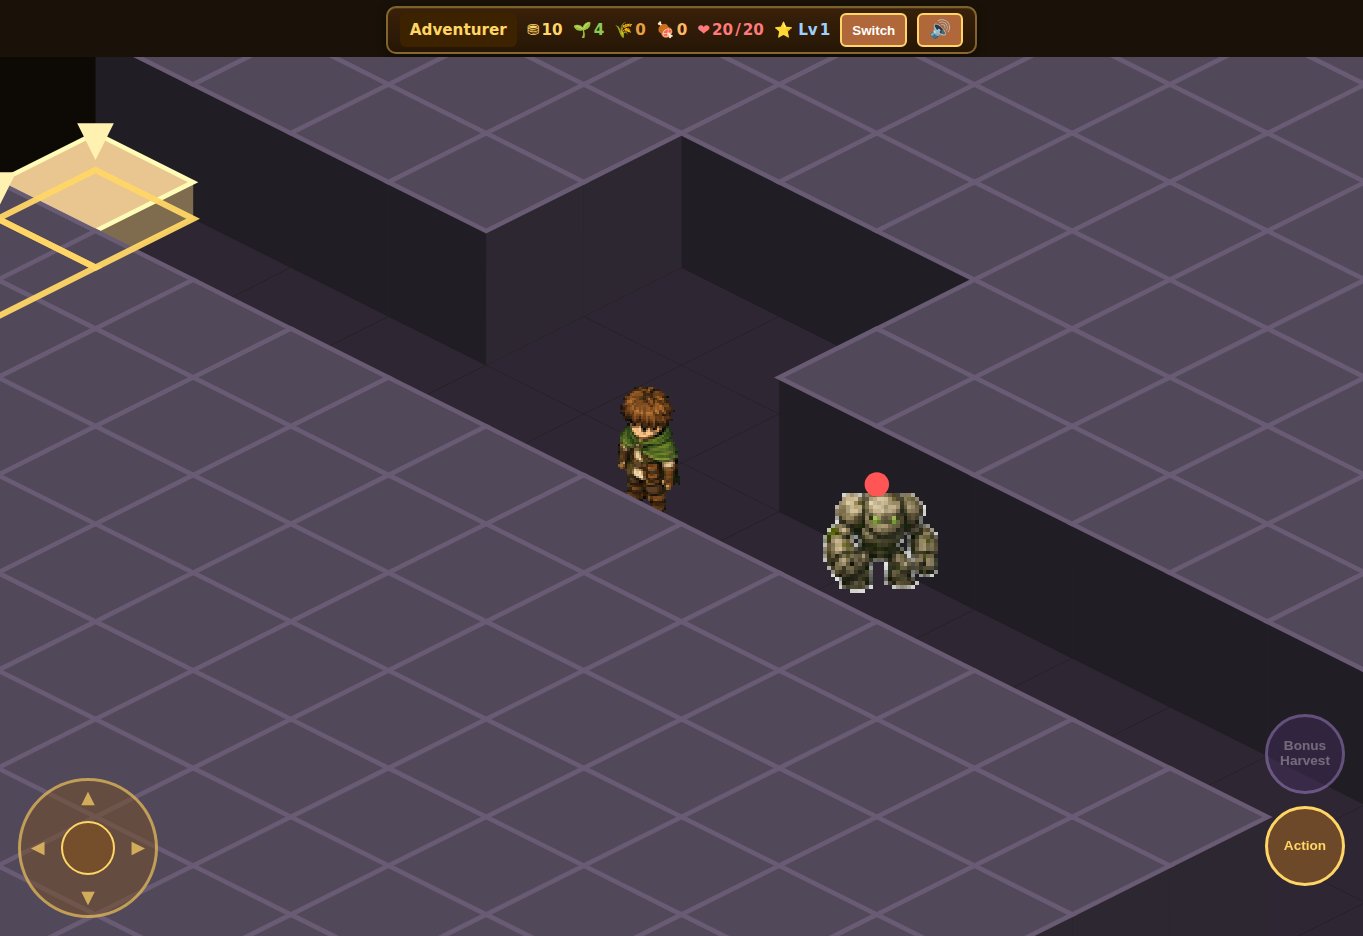
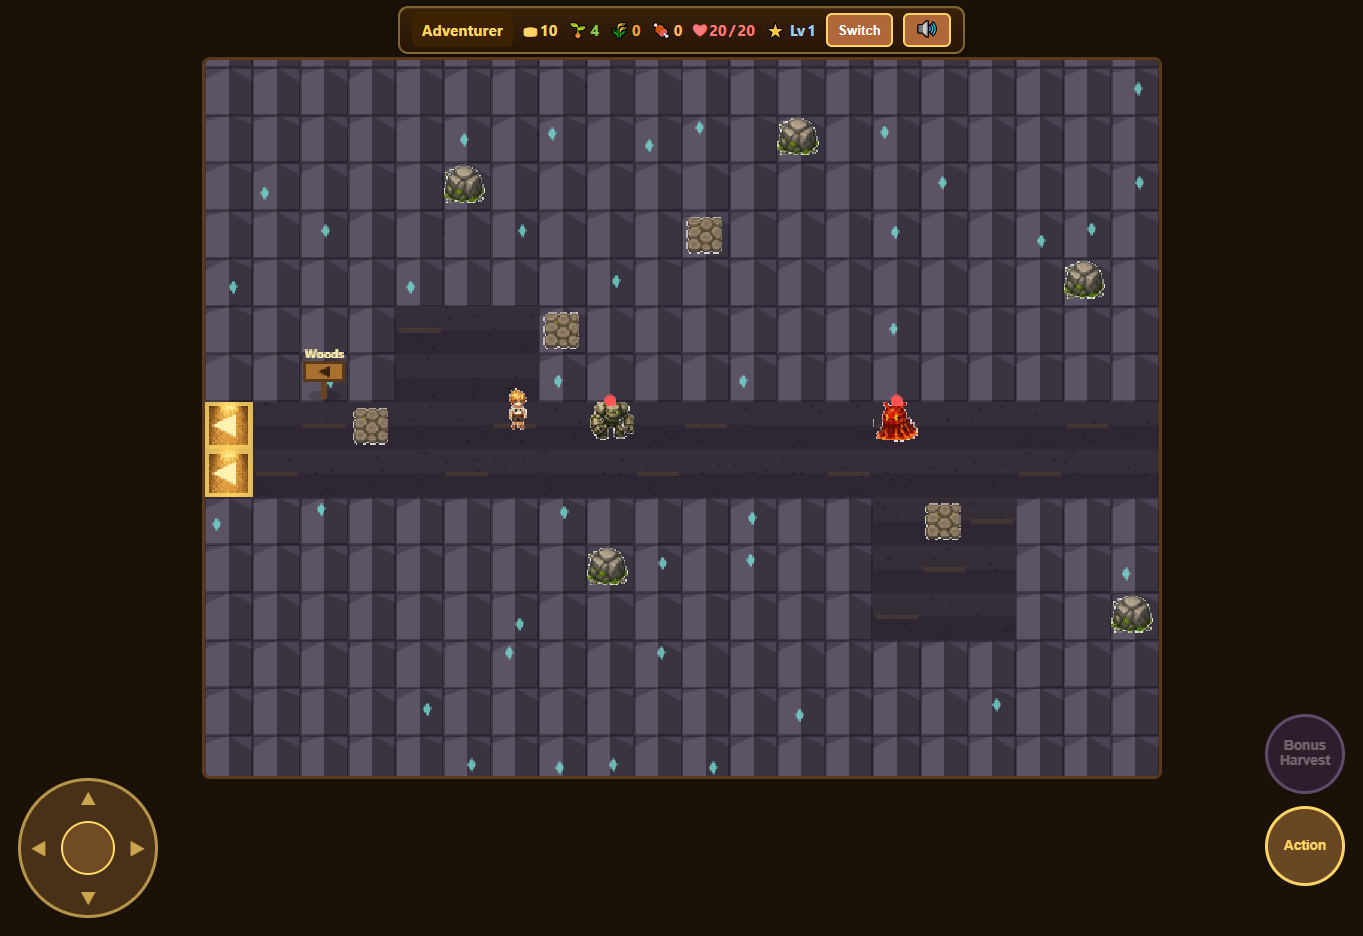
fix: address blocking review — keep top-down cardinal, revert combat-area iso defaults
Review finding 1: under ?iso=0 the eight-way facing broke the escape
hatch — attack strips and equipment overlays exist only for the original
four facings, so a diagonal facing dropped them. Top-down movement and
tap-to-face now stay cardinal (cardinalFromVector, the pre-8-direction
horizontal-wins rule), a stale diagonal facing carried into top-down
(iso save / mode toggle) snaps back on the next update, and iso keeps
the full eight-way behavior where overlays are not drawn. New iso-test
Suite 17 covers diagonal input, attack art, equipped gear, and the
snap-back in ?iso=0.

Review finding 2: the all-area iso default flip exceeded this slice's
scope — the iso spec gates Phase 4 on combat/quest parity that is not
yet established for Wilds/Deep Woods/Mine. ISO_AREAS reverts to
farm/town only, Suite 2 restores the unported-areas assertion, the
mine-cavern captures revert to their base top-down state, and
CURRENT_STATE / iso spec / PIPELINE.md now scope the eight-direction
upgrade to iso mode with the combat areas' defaults unchanged. The iso
enemy-sprite drawing and the area evidence remain valid under the
?iso=1 development override and are relabelled as such.

Full npm test chain passes at this head.

Claude-Session: https://claude.ai/code/session_01VbBEy8sMVWqwU3Y7Q4qbTv

diff --git a/index.html b/index.html
@@ -1182,6 +1182,20 @@ function facingFromVector(dx, dy) {
   return FACING_OCTANTS[((oct % 8) + 8) % 8];
 }
 
+// Top-down keeps the original four facings: attack strips and equipment
+// overlays only exist for those, so a diagonal facing under ?iso=0 would make
+// the attack animation and equipped gear vanish. Diagonal input prefers the
+// stronger axis; tied diagonals keep the horizontal direction (pre-8-direction
+// behavior, unchanged).
+function cardinalFromVector(dx, dy) {
+  if (Math.abs(dx) >= Math.abs(dy) && dx !== 0) return dx < 0 ? 'left' : 'right';
+  return dy < 0 ? 'up' : 'down';
+}
+// Snap map for a diagonal facing carried into top-down mode (iso save, mode
+// toggle): same horizontal-wins rule as cardinalFromVector.
+var FACING_TO_CARDINAL = { 'down-right': 'right', 'up-right': 'right',
+                           'down-left': 'left', 'up-left': 'left' };
+
 // Prefer the selected child's directional art. Missing new art falls back to the
 // original single player.png, then the existing yellow-box placeholder.
 function playerSprite() {
@@ -1338,7 +1352,7 @@ bgMusic.volume = 0.35;
 //       placeholder geometry. The Forge and the other villagers still render through the
 //       generic tile/NPC placeholders; they are not part of that validated slice.
 // Override: ?iso=1 forces iso everywhere, ?iso=0 forces top-down; both persist via localStorage.
-var ISO_AREAS = { farm: true, town: true, wilds: true, deepwoods: true, mine: true };
+var ISO_AREAS = { farm: true, town: true, wilds: false, deepwoods: false, mine: false };
 if (location.search.indexOf('iso=1') !== -1) { try { localStorage.setItem('eldoria_iso', '1'); } catch (e) {} }
 if (location.search.indexOf('iso=0') !== -1) { try { localStorage.setItem('eldoria_iso', '0'); } catch (e) {} }
 function isoActive() {
@@ -1835,7 +1849,10 @@ function faceWorldTile(row, col) {
   var playerRow = Math.floor((player.y + player.size / 2) / TILE);
   var dc = col - playerCol;
   var dr = row - playerRow;
-  if (dc !== 0 || dr !== 0) player.facing = facingFromVector(dc, dr);
+  if (dc === 0 && dr === 0) return;
+  // Same split as movement: eight-way only in iso, cardinal in top-down.
+  player.facing = (typeof isoActive === 'function' && isoActive())
+    ? facingFromVector(dc, dr) : cardinalFromVector(dc, dr);
 }
 
 function askToWalkCloser(label) {
@@ -3883,9 +3900,15 @@ function update() {
       isoMoved = true;
     }
 
-    // Eight-way facing straight from the motion vector — diagonals get their own
-    // pose now that every facing has real art.
-    if (dx !== 0 || dy !== 0) player.facing = facingFromVector(dx, dy);
+    // Eight-way facing in iso, where every facing has real art and overlays are
+    // not drawn. Top-down stays cardinal so attack strips and equipped gear
+    // (authored for the original four facings only) never disappear.
+    if (dx !== 0 || dy !== 0) {
+      player.facing = isoMoved ? facingFromVector(dx, dy) : cardinalFromVector(dx, dy);
+    } else if (!isoMoved && FACING_TO_CARDINAL[player.facing] &&
+               !(typeof isoActive === 'function' && isoActive())) {
+      player.facing = FACING_TO_CARDINAL[player.facing];
+    }
 
     // (Iso vectors are already unit-length; re-normalizing would halve some directions.)
     if (!isoMoved && dx !== 0 && dy !== 0) {

diff --git a/docs/CURRENT_STATE.md b/docs/CURRENT_STATE.md
@@ -8,7 +8,7 @@
 
 - One offline, vanilla HTML/CSS/JavaScript game in `index.html`.
 - World coordinates, collision, maps, saves, economy, quests, and combat remain orthogonal and shared by both render modes.
-- All five areas (Farm, Town, Wilds, Deep Woods, Mine) default to the isometric renderer since the 2026-07-30 eight-direction slice; `?iso=0` remains the top-down escape hatch.
+- Farm and Town default to the isometric renderer. Wilds, Deep Woods, and Mine remain top-down by default; under the `?iso=1` development override they render in iso with real enemy sprites, but flipping their defaults stays out of scope until the iso spec's combat/quest parity gates are met.
 - Town's validated isometric scope is intentionally partial: the General Store and Mira have dedicated placeholder treatments; the Forge and remaining villagers still use generic placeholders.
 - The current save schema remains version 2. Isometric work must not change it unless Leo explicitly authorizes a migration.
 
@@ -26,7 +26,7 @@
 - Production generation now follows [`tools/pipeline/PIPELINE.md`](../tools/pipeline/PIPELINE.md): ChatGPT-owned identity concepts where identity matters, PixelLab rotations/generation, deterministic normalization, fail-closed validation, human review, and North Star review before anything enters `assets/`.
 - The four identity concepts (Mage, Mira, Shadow Warden, Crystal Wyrm), the full cast sheet, and the Farm landscape sheet were owner-approved during pipeline calibration.
 - Mage v3 reference rotation preserved the approved identity across all eight generated directions.
-- **Superseded 2026-07-30 by owner call:** the four-facing compatibility subset is no longer the runtime default. The engine consumes all eight facings per hero (right=SE, down=SW, left=NW, up=NE, down-right=S, down-left=W, up-left=N, up-right=E), with walk strips per facing sourced from the owner's manual web-Creator regeneration of both heroes, curated to the engine's `{stand, step A, stand, step B}` contract, and played by the iso renderer.
+- **Superseded 2026-07-30 by owner call (iso mode):** the four-facing compatibility subset is no longer the iso runtime limit. In iso the engine consumes all eight facings per hero (right=SE, down=SW, left=NW, up=NE, down-right=S, down-left=W, up-left=N, up-right=E), with walk strips per facing sourced from the owner's manual web-Creator regeneration of both heroes, curated to the engine's `{stand, step A, stand, step B}` contract, and played by the iso renderer. The top-down escape hatch keeps cardinal facings so its attack strips and equipment overlays (authored for the original four facings) always resolve.
 - The approved Farm landscape candidates remain generation outputs until they are deliberately normalized, validated, committed under `assets/iso/`, wired into the renderer, and inspected in-game.
 - Building kits are the next generation need. They must use the approved landscape as the style reference and still pass human and North Star review.
 - [`tools/3D_ISO_SPRITE_PIPELINE.md`](../tools/3D_ISO_SPRITE_PIPELINE.md) is historical. Do not restart its generation route; only the retained engine-contract facts explicitly referenced by the v2 pipeline remain applicable.

diff --git a/docs/superpowers/specs/2026-07-27-isometric-conversion-design.md b/docs/superpowers/specs/2026-07-27-isometric-conversion-design.md
@@ -31,9 +31,11 @@ Locked in brainstorming (Leo, 2026-07-27):
 
 Defaults adopted, **veto anytime before Phase 3** (art production is when they harden):
 - **D1 — 4 facings** (not 8). Doubles are cheap to add later; start simple.
-  **SUPERSEDED 2026-07-30 by owner call:** heroes now run all 8 facings with per-facing
-  walk strips; the four world-diagonal slots (down-right=S, down-left=W, up-left=N,
-  up-right=E) joined the original four (right=SE, down=SW, left=NW, up=NE).
+  **SUPERSEDED 2026-07-30 by owner call (iso mode):** heroes run all 8 facings in iso with
+  per-facing walk strips; the four world-diagonal slots (down-right=S, down-left=W,
+  up-left=N, up-right=E) joined the original four (right=SE, down=SW, left=NW, up=NE).
+  The top-down escape hatch stays cardinal — its attack/equipment art only exists for
+  the original four facings.
 - **D2 — Equipment as cohesive gear-tier looks** (not per-slot paper-doll overlays) for iso art.
   Interim: iso base bodies + NO separate equipment overlays; gear still applies statistically.
   (See pipeline doc §6; revisit if the kids miss visual mix-and-match.)
@@ -213,10 +215,9 @@ Engine code changes (complete list — anything beyond this is scope creep):
   all eight facing slots sourced from approved eight-direction rotations (superseding the earlier
   four-diagonal compatibility subset, per the 2026-07-30 owner call).
 - **Phase 4 — Default flip.** Iso becomes the default everywhere; top-down remains reachable via
-  the flag for one settling period, then the top-down draw path is retired.
-  **PARTIALLY DELIVERED 2026-07-30:** all five areas now default to iso and hero walk animation
-  plays in the iso renderer; the top-down path remains reachable via `?iso=0` for the settling
-  period.
+  the flag for one settling period, then the top-down draw path is retired. Not started: the
+  Wilds/Deep Woods/Mine defaults stay top-down until Phase 2 combat/quest parity is verified
+  there (2026-07-30 non-author review). Hero walk animation in the iso renderer is delivered.
 
 ## 10. What does NOT change
 

diff --git a/tools/pipeline/PIPELINE.md b/tools/pipeline/PIPELINE.md
@@ -83,12 +83,14 @@ Retain every generated direction as canonical production source material:
 | `west` | `down-left` |
 | `south-west` | `down` |
 
-**Superseded 2026-07-30 by owner call:** the four-diagonal compatibility subset
-is no longer the runtime limit. Heroes consume all eight directions, each with
-its own walk strip; `facingFromVector` in `index.html` buckets the world motion
-vector into octants, and the normalizer/validator (`normalize_sprite.py`,
-`validate_sprites.py`) enforce all eight slots. Moving NPCs/enemies remain a
-later bounded upgrade.
+**Superseded 2026-07-30 by owner call (iso mode):** the four-diagonal
+compatibility subset is no longer the iso runtime limit. In iso, heroes consume
+all eight directions, each with its own walk strip; `facingFromVector` in
+`index.html` buckets the world motion vector into octants, and the
+normalizer/validator (`normalize_sprite.py`, `validate_sprites.py`) enforce all
+eight slots. The top-down escape hatch keeps cardinal facings (its
+attack/equipment art exists only for the original four). Moving NPCs/enemies
+remain a later bounded upgrade.
 
 The 26.565° constant (= atan 0.5) is the **screen slope of the 2:1 diamond
 edge** carried over from the prior 3D contract; it is not, without

diff --git a/docs/playtest/2026-07-30-8dir/README.md b/docs/playtest/2026-07-30-8dir/README.md
@@ -12,6 +12,7 @@ the eight-direction walk slice.
 - `<profile>-stand.png` — the standing pose (walkFrame resets to 0), the
   engine's stationary contract.
 - `area-<name>.png` — every area (`farm`, `town`, `wilds`, `deepwoods`,
-  `mine`) rendering in its now-default iso mode; the combat areas show enemies
-  drawn from their real sprites (with the top-down red "alive" cue) instead of
-  colored prisms.
+  `mine`) rendering in iso under the `?iso=1` development override (Farm and
+  Town are iso by default; the combat areas remain top-down by default until
+  their parity gates are met); the combat areas show enemies drawn from their
+  real sprites (with the top-down red "alive" cue) instead of colored prisms.
